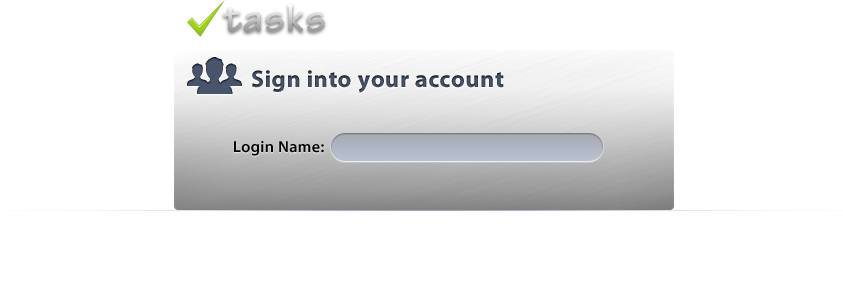
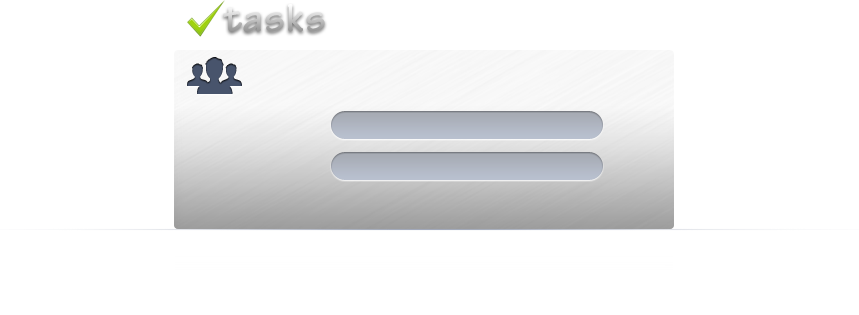
switched to login page with password field

Changed region(s): [[0.1851, 0.3345, 0.8019, 0.7297], [0.2159, 0.1824, 0.6168, 0.3345], [0.2159, 0.0, 0.4009, 0.1216]]

diff --git a/apps/tasks/english.lproj/login_page.js b/apps/tasks/english.lproj/login_page.js
@@ -23,23 +23,48 @@ Tasks.loginPage = SC.Page.create({
       
       layout: { top: 0, bottom: 0, left: 0, right: 0 },
       classNames: ['login-body'],
-      childViews: 'loginField loginErrorMessage cancelButton loginButton signup'.w(),
+      childViews: 'loginPromptLabel loginNameLabel loginNameField passwordLabel passwordField loginErrorMessage cancelButton loginButton signup'.w(),
       
-      loginField: SC.TextFieldView.design({
-        layout: { top: 135, left: 344, width: 246, height: 26 },
+      loginPromptLabel: SC.LabelView.design({
+        layout: { top: 65, left: 255, width: 250, height: 24 },
+        classNames: ['login-prompt'],
+        value: "_LoginPrompt".loc() 
+      }),
+      
+      loginNameLabel: SC.LabelView.design({
+        layout: { top: 115, left: 200, width: 125, height: 18 },
+        classNames: ['login-label'],
+        textAlign: SC.ALIGN_RIGHT,
+        value: "_LoginName:".loc() 
+      }),
+      loginNameField: SC.TextFieldView.design({
+        layout: { top: 113, left: 344, width: 246, height: 26 },
         classNames: ['login-name'],
         valueBinding: 'Tasks.loginController.loginName'
       }),
       
+      passwordLabel: SC.LabelView.design({
+        layout: { top: 158, left: 200, width: 125, height: 18 },
+        classNames: ['login-label'],
+        textAlign: SC.ALIGN_RIGHT,
+        value: "_Password:".loc() 
+      }),
+      // TODO: [SG] Beta: see how to mask password as it is entered on screen
+      passwordField: SC.TextFieldView.design({
+        layout: { top: 154, left: 344, width: 246, height: 26 },
+        classNames: ['login-name'],
+        valueBinding: 'Tasks.loginController.password'
+      }),
+      
       loginErrorMessage: SC.LabelView.design({
-        layout: { top: 112, left: 420, width: 250, height: 20 },
+        layout: { top: 195, left: 200, width: 250, height: 20 },
+        classNames: ['error-message'],
         value: "_LoginError".loc(),
-        isVisibleBinding: SC.Binding.oneWay('Tasks.loginController.loginError').bool(),
-        classNames: ['error-message']
+        isVisibleBinding: SC.Binding.oneWay('Tasks.loginController.loginError').bool()
       }),
       
       cancelButton: SC.ButtonView.design({
-        layout: { top: 178, left: 502, width: 80, height: 30 },
+        layout: { top: 195, left: 502, width: 80, height: 24 },
         titleMinWidth: 0,
         theme: 'capsule',
         isCancel: YES,
@@ -49,7 +74,7 @@ Tasks.loginPage = SC.Page.create({
       }),
       
       loginButton: SC.ButtonView.design({
-        layout: { top: 178, left: 588, width: 80, height: 30 },
+        layout: { top: 195, left: 588, width: 80, height: 24 },
         titleMinWidth: 0,
         isEnabledBinding: SC.Binding.oneWay('Tasks.loginController.loginName').bool(),
         theme: 'capsule',
@@ -60,7 +85,7 @@ Tasks.loginPage = SC.Page.create({
       }),
       
       signup: SC.LabelView.design(SCUI.SimpleButton,{
-        layout: { top: 220, left: 500, height: 24, width: 200 },
+        layout: { top: 235, left: 500, height: 24, width: 200 },
         classNames: ['sign-up'],
         value: "_NewUserSignup".loc(),
         target: 'Tasks',
@@ -68,9 +93,10 @@ Tasks.loginPage = SC.Page.create({
       })
       
     }),
-      
+    
+    // FIXME: [SG] Beta: see why cursor is not blinking in this field at startup as it used to before
     focus: function() {
-      this.contentView.loginField.becomeFirstResponder();        
+      this.contentView.loginNameField.becomeFirstResponder();        
     }
     
   })

diff --git a/apps/tasks/english.lproj/default_theme/login.css b/apps/tasks/english.lproj/default_theme/login.css
@@ -6,11 +6,56 @@
   
 */
 
-/*
-// TODO: [SG] Beta: switch to new login image and add I18N labels on top of it
-*/
 .login-page {
   background: static_url('images/login-bg.png') no-repeat;
+}
+
+.login-page .top-left-edge {
+  display: none;
+}
+
+.login-page .top-edge {
+  display: none;
+}
+
+.login-page .top-right-edge {
+  display: none;
+}
+
+.login-page .right-edge {
+  display: none;
+}
+
+.login-page .bottom-right-edge {
+  display: none;
+}
+
+.login-page .bottom-edge {
+  display: none;
+}
+
+.login-page .bottom-left-edge {
+  display: none;
+}
+
+.login-page .left-edge {
+  display: none;
+}
+
+.login-body {
+  background: none !important;
+}
+
+.sc-view .login-prompt {
+  font-size: 16pt;
+  font-weight: bold;
+  color: #444 !important;
+}
+
+.sc-view .login-label {
+  font-size: 11pt;
+  font-weight: bold;
+  color: #444 !important;
 }
 
 .sc-view .login-name {
@@ -57,40 +102,4 @@
 .sign-up {
   color: #39C !important;
   font-size: 11px !important;
-}
-
-.login-body {
-  background: none !important;
-}
-
-.login-page .top-left-edge {
-  display: none;
-}
-
-.login-page .top-edge {
-  display: none;
-}
-
-.login-page .top-right-edge {
-  display: none;
-}
-
-.login-page .right-edge {
-  display: none;
-}
-
-.login-page .bottom-right-edge {
-  display: none;
-}
-
-.login-page .bottom-edge {
-  display: none;
-}
-
-.login-page .bottom-left-edge {
-  display: none;
-}
-
-.login-page .left-edge {
-  display: none;
 }

diff --git a/apps/tasks/controllers/login.js b/apps/tasks/controllers/login.js
@@ -18,6 +18,7 @@ Tasks.loginController = SC.ObjectController.create(
     _panelOpen: false,
     loginError: false,
     loginName: '',
+    password: '',
     
     openPanel: function(){
       if(this._panelOpen) return;
@@ -40,8 +41,9 @@ Tasks.loginController = SC.ObjectController.create(
     
     login: function() {
       var loginName = this.get('loginName');
+      var password = this.get('password');
       if (loginName !== null && loginName !== '') {
-        Tasks.authenticate(loginName, 'password'); // TODO: [SG] Beta: get password from user
+        Tasks.authenticate(loginName, password);
       }
     },
     
@@ -54,8 +56,8 @@ Tasks.loginController = SC.ObjectController.create(
       Tasks.mainPage.get('mainPane').removeAllChildren();
     },
     
-    _loginNameHasChanged: function() {
+    _loginInformationHasChanged: function() {
       this.set('loginError', false);
-    }.observes('loginName')
+    }.observes('loginName', 'password')
     
 });

diff --git a/apps/tasks/core_actions.js b/apps/tasks/core_actions.js
@@ -34,12 +34,12 @@ Tasks.mixin({
           successCallback: this.authenticationSuccess.bind(this),
           failureCallback: this.authenticationFailure.bind(this)
         };
-        // perservere authentication
-        CoreTasks.User.authenticate(loginName, "", params);
+        // Perservere authentication
+        CoreTasks.User.authenticate(loginName, password, params);
         // sinatra authentication
         // TODO [JH2, SG]  We need a way to determine the backend
         // This has been tested and it works! :)
-        // CoreTasks.User.sinatraAuthenticate(loginName,"",params);
+        // CoreTasks.User.sinatraAuthenticate(loginName, password,params);
         break;
 
       default:

diff --git a/apps/tasks/english.lproj/strings.js b/apps/tasks/english.lproj/strings.js
@@ -15,6 +15,7 @@
 SC.stringsFor('English', {
 
   // Authentication strings
+  "_LoginPrompt": "Sign into your account",
   "_LoginName:": "Login Name:",
   "_Login": "Login",
   "_LoginError": "Login failed, please try again",
